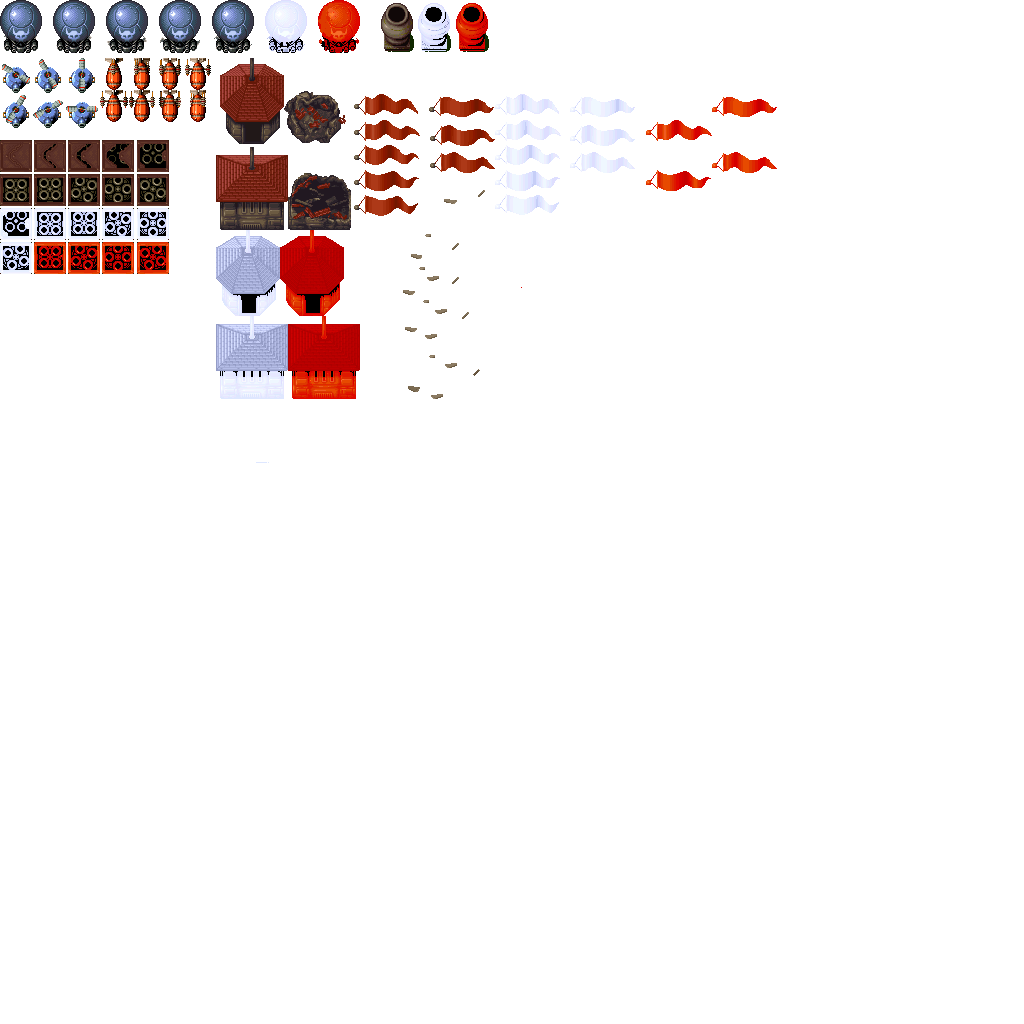
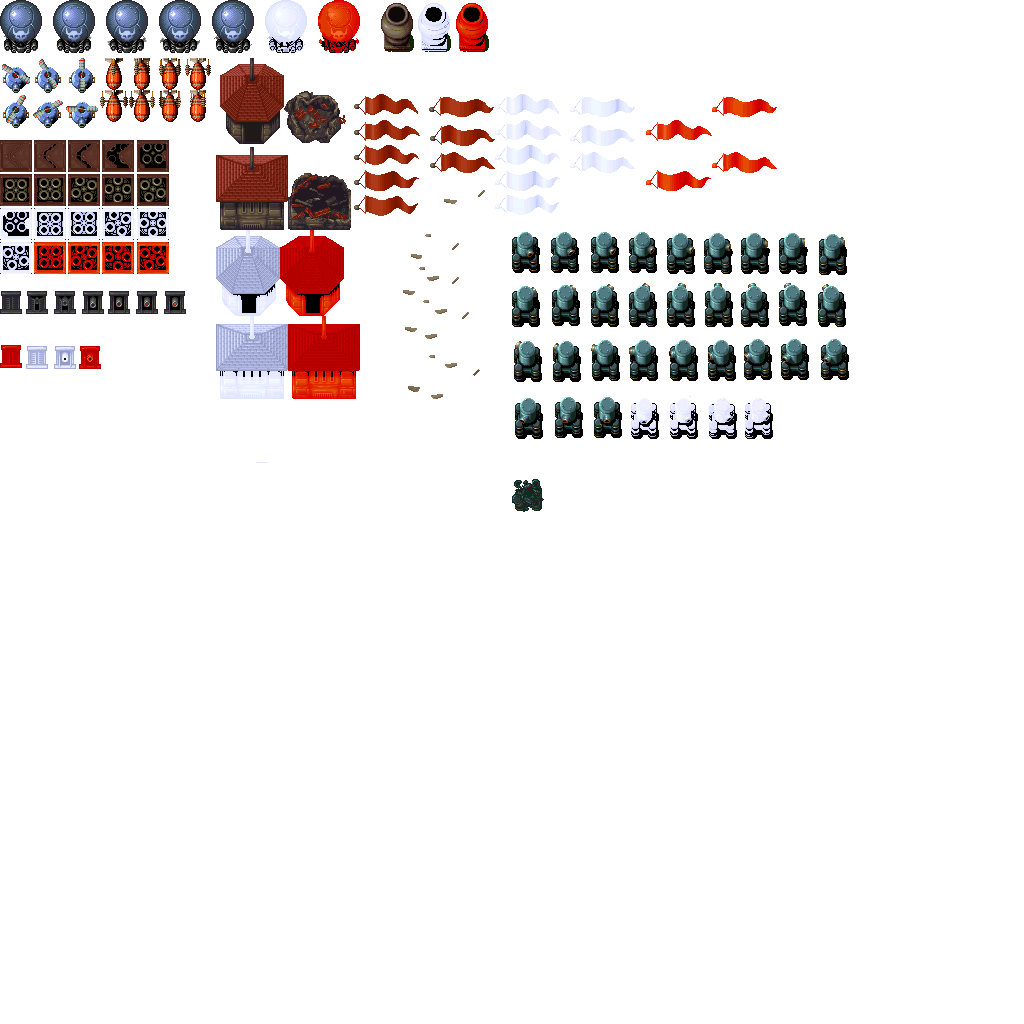
Added enemy rotating turret, window gun (to continue) and Balloons to Village Level

Changed region(s): [[0.5, 0.2188, 0.8438, 0.4375], [0.0, 0.2812, 0.1875, 0.375], [0.5, 0.4688, 0.5312, 0.5]]

diff --git a/gunbird/Enemy_WindowGun.cpp b/gunbird/Enemy_WindowGun.cpp
@@ -1,0 +1,71 @@
+#include "Application.h"
+#include "ModuleRender.h"
+#include "ModuleParticles.h"
+#include "Enemy_WindowGun.h"
+#include "ModulePlayer.h"
+#include "ModuleEnemies.h"
+#include "ModuleCollision.h"
+#include "SDL/include/SDL_timer.h"
+
+
+
+
+Enemy_WindowGun::Enemy_WindowGun(int x, int y, int option) : Enemy(x, y, option)
+{
+	//closed animation
+	closed.PushBack({ 0, 291, 22, 23 });
+
+	//opening animation
+	opening.PushBack({26, 291, 22, 23});
+	opening.PushBack({54, 291, 22, 23});
+	shooting.loop = false;
+
+	//opening hit animation
+
+	//normal opened animation
+	stand1.PushBack({82, 291, 22, 23});
+
+	//shooting animation
+	shooting.PushBack({108, 291, 22, 23});
+	shooting.PushBack({136, 291, 22, 23});
+	shooting.PushBack({164, 291, 22, 23});
+	shooting.loop = true;
+	shooting.speed = 1.0f;
+
+	//hit opened animation
+
+	//damaged opened animation
+
+	collider = App->collision->AddCollider({ 0, 0, 33, 49 }, COLLIDER_TYPE::COLLIDER_ENEMY, (Module*)App->enemies);
+
+	animation = &closed;
+
+	
+	path.PushBack({ 0.0f, 0.4f }, 10000);
+	original_pos.x = x;
+	original_pos.y = y;
+
+	hp = 5.0f;
+	damaged_hp = 4.0f;
+	death_type = SMALL_ENEMY;
+	drops_coin = false;
+	flying = false;
+	killscore = 200;
+}
+
+void Enemy_WindowGun::Move()
+{
+	position = original_pos + path.GetCurrentPosition();
+
+	if (status == OPENING || status == NONE)
+		collider->type = COLLIDER_NONE;
+	if (status == NORMAL)
+		collider->type = COLLIDER_ENEMY;
+
+	/*if (status == OPENING && animation->Finished() == true) { status = NORMAL; }
+	if (status == NORMAL) { animation = &stand1; }
+	if (status == HIT && animation == &opening) { animation = &opening2; }
+	if (status == HIT) { animation = &stand2; }
+	if (status == DAMAGED) { animation = &stand3; }*/
+}
+

diff --git a/gunbird/Enemy_Balloon.cpp b/gunbird/Enemy_Balloon.cpp
@@ -15,10 +15,10 @@ Enemy_Balloon::Enemy_Balloon(int x, int y, int option) : Enemy(x, y, option)
 	fly.PushBack({ 106, 0, 53, 53 });
 	fly.PushBack({ 159, 0, 53, 53 });
 	fly.PushBack({ 212, 0, 53, 53 });
-	fly.speed = 0.65f;
+	fly.speed = 0.45f;
 	
 	fly2.PushBack({ 265, 0, 53, 53 });
-	fly2.speed = 0.65f;
+	fly2.speed = 0.45f;
 
 	fly3.PushBack({ 0, 0, 53, 53 });
 	fly3.PushBack({ 53, 0, 53, 53 });
@@ -26,16 +26,39 @@ Enemy_Balloon::Enemy_Balloon(int x, int y, int option) : Enemy(x, y, option)
 	fly3.PushBack({ 159, 0, 53, 53 });
 	fly3.PushBack({ 212, 0, 53, 53 });
 	fly3.PushBack({ 318, 0, 53, 53 });
-	fly3.speed = 0.65f;
+	fly3.speed = 0.45f;
 
 	animation = &fly;
 
-	path.PushBack({ 0.0f, 0.55f }, 220);
-	path.PushBack({ 0.0f, 2.0f }, 55);
-	path.PushBack({ 0.0f, 0.0f }, 120);
-	path.PushBack({ 0.0f, 2.0f }, 55);
-	path.PushBack({ 0.0f, 0.0f }, 120);
-	path.PushBack({ 0.0f, 2.0f }, 10000);
+	//path.PushBack({ 0.0f, 0.55f }, 220);
+	//path.PushBack({ 0.0f, 2.0f }, 55);
+	if (position.y < 0)
+	{
+		path.PushBack({ 0.0f, 0.0f }, 25);
+		path.PushBack({ 0.0f, 1.5f }, 46);
+		counter++;
+	}
+	
+	if (counter != 0)
+	{
+		path.PushBack({ 0.0f, 0.0f }, 140);
+		path.PushBack({ 0.0f, 1.5f }, 65);
+		path.PushBack({ 0.0f, 0.0f }, 345);
+		path.PushBack({ 0.0f, 1.0f }, 500);
+	}
+	else	
+	{
+		path.PushBack({ 0.0f, 0.0f }, 120);
+		path.PushBack({ 0.0f, 1.5f }, 65);
+		path.PushBack({ 0.0f, 0.0f }, 270);
+		path.PushBack({ 0.0f, 1.0f }, 500);
+	}
+	
+	
+	
+	
+	//.PushBack({ 0.0f, 0.0f }, 120);
+	//path.PushBack({ 0.0f, 2.0f }, 10000);
 
 
 	collider = App->collision->AddCollider({ 0, 0, 42, 53 }, COLLIDER_TYPE::COLLIDER_ENEMY_F, (Module*)App->enemies);

diff --git a/gunbird/Enemy_RotatingTurret.cpp b/gunbird/Enemy_RotatingTurret.cpp
@@ -1,0 +1,48 @@
+#include "Application.h"
+#include "ModuleParticles.h"
+#include "Enemy_RotatingTurret.h"
+#include "ModulePlayer.h"
+#include "ModuleCollision.h"
+#include "SDL/include/SDL_timer.h"
+#include <cmath>
+
+
+
+Enemy_RotatingTurret::Enemy_RotatingTurret(int x, int y, int option) : Enemy(x, y, option)
+{
+
+	//normal animation
+	normal_anim.PushBack({ 594, 397, 28, 41 });
+
+	//hit animation
+	hit_anim.PushBack({ 631, 397, 28, 41 });
+
+	
+	collider = App->collision->AddCollider({ 0, 0, 28, 41 }, COLLIDER_TYPE::COLLIDER_ENEMY, (Module*)App->enemies);
+
+	animation = &normal_anim;
+
+
+	path.PushBack({ 0.0f, 0.4f }, 1000);
+
+	original_pos.x = x;
+	original_pos.y = y;
+
+	hp = 2.0f;
+
+	death_type = SMALL_ENEMY;
+	flying = false;
+	killscore = 500;
+}
+
+void Enemy_RotatingTurret::Move()
+{
+	position = original_pos + path.GetCurrentPosition();
+	
+	if (status == NORMAL) { animation = &normal_anim; }
+	if (status == HIT) { animation = &hit_anim; }
+	
+}
+
+void Enemy_RotatingTurret::Shoot()
+{}

diff --git a/gunbird/ModuleVillageScene.cpp b/gunbird/ModuleVillageScene.cpp
@@ -66,19 +66,19 @@ bool ModuleVillageScene::Start()
 
 	App->collision->AddCollider(npi, COLLIDER_WALL);
 
-	
+	//---ENEMIES---
 
-	return true;
-}
+	//--Adding Balloons--
+	App->enemies->AddEnemy(ENEMY_TYPES::BALLOON, 50, 20, 0);
+	App->enemies->AddEnemy(ENEMY_TYPES::BALLOON, 150, -50, 0);
 
-// UnLoad assets
-bool ModuleVillageScene::CleanUp()
-{
-	LOG("Unloading Village scene");
+	//--Adding Rotating Turrets--
+	App->enemies->AddEnemy(ENEMY_TYPES::ROTATINGTURRET, 20, -70, 0);
 
-	
-	App->player->Disable();
-	App->player2->Disable();
+	//--Adding Window Guns--
+	App->enemies->AddEnemy(ENEMY_TYPES::WINDOWGUN, 26, -122, 0);
+
+	return true; 
 	App->enemies->Disable();
 	App->particles->Disable();
 	App->collision->Disable();

diff --git a/gunbird/ModuleEnemies.cpp b/gunbird/ModuleEnemies.cpp
@@ -12,6 +12,8 @@
 #include "Enemy_Turretcopter.h"
 #include "Enemy_CastleMortar.h"
 #include "Enemy_Vase.h"
+#include "Enemy_RotatingTurret.h"
+#include "Enemy_WindowGun.h"
 
 
 #define SPAWN_MARGIN 500
@@ -163,6 +165,12 @@ void ModuleEnemies::SpawnEnemy(const EnemyInfo& info)
 			break;
 		case ENEMY_TYPES::VASE:
 			enemies[i] = new Enemy_Vase(info.x, info.y, info.pathoption);
+			break;
+		case ENEMY_TYPES::ROTATINGTURRET:
+			enemies[i] = new Enemy_RotatingTurret(info.x, info.y, info.pathoption);
+			break;
+		case ENEMY_TYPES::WINDOWGUN:
+			enemies[i] = new Enemy_WindowGun(info.x, info.y, info.pathoption);
 			break;
 		}
 	}

diff --git a/gunbird/Enemy_RotatingTurret.h b/gunbird/Enemy_RotatingTurret.h
@@ -1,0 +1,25 @@
+#ifndef __ENEMY_ROTATINGTURRET_H__
+#define __ENEMY_ROTATINGTURRET_H__
+
+#include "Enemy.h"
+#include "Path.h"
+
+class Enemy_RotatingTurret : public Enemy
+{
+
+private:
+	iPoint original_pos;
+	fPoint distance;
+	Animation normal_anim;
+	Animation hit_anim;
+	Path path;
+public:
+	Enemy_RotatingTurret(int x, int y, int option);
+	void Shoot();
+	void Move();
+	int reload[3];
+	int initcounter = 0;
+	float aux_float;
+	fPoint speeds;
+};
+#endif

diff --git a/gunbird/Enemy_WindowGun.h b/gunbird/Enemy_WindowGun.h
@@ -1,0 +1,28 @@
+#ifndef __ENEMY_WINDOWGUN_H__
+#define __ENEMY_WINDOWGUN_H__
+
+#include "Enemy.h"
+#include "Path.h"
+
+
+class Enemy_WindowGun : public Enemy
+{
+
+private:
+	iPoint original_pos;
+	Animation closed;
+	Animation opening;
+	Animation opening2;
+	Animation stand1;
+	Animation stand2;
+	Animation stand3;
+	Animation shooting;
+	Path path;
+
+
+public:
+	Enemy_WindowGun(int x, int y, int option);
+	void Move();
+};
+#endif
+

diff --git a/gunbird/ModuleEnemies.h b/gunbird/ModuleEnemies.h
@@ -6,6 +6,8 @@
 #include "Enemy_Redbomb.h"
 #include "Enemy_Turretcopter.h"
 #include "Enemy_CastleMortar.h"
+#include "Enemy_RotatingTurret.h"
+#include "Enemy_WindowGun.h"
 
 #define MAX_ENEMIES 100
 
@@ -20,6 +22,8 @@ enum ENEMY_TYPES
 	TURRETCOPTER,
 	CASTLEMORTAR,
 	VASE,
+	ROTATINGTURRET,
+	WINDOWGUN,
 };
 
 class Enemy;

diff --git a/gunbird/Enemy_Balloon.h b/gunbird/Enemy_Balloon.h
@@ -21,6 +21,7 @@ public:
 	int initcounter = 0;
 	float aux_float;
 	fPoint speeds;
+	int counter = 0;
 
 };
 #endif
